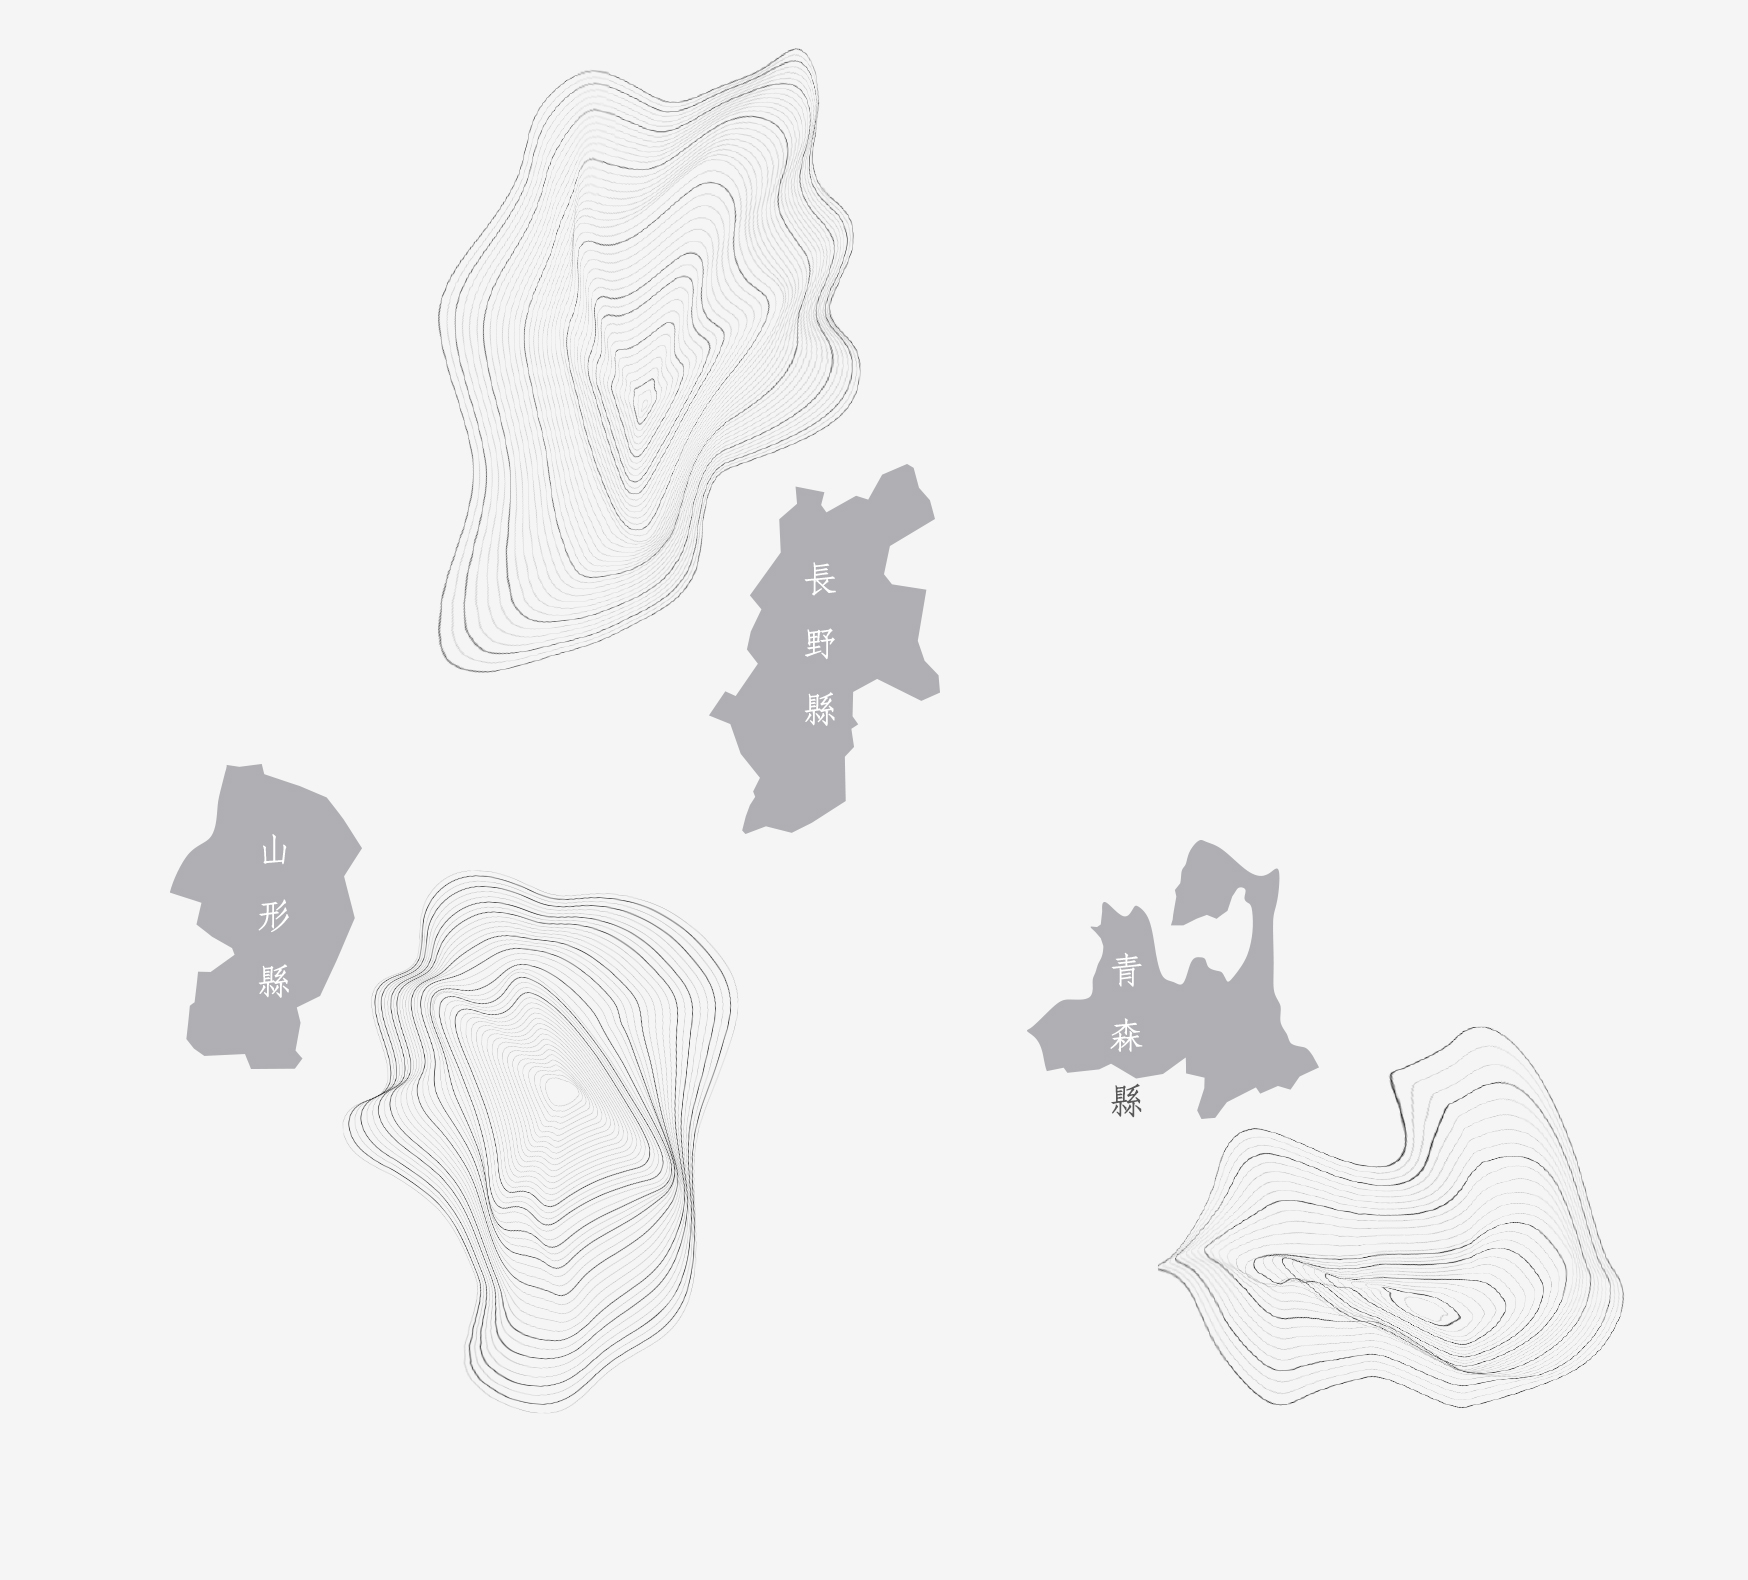
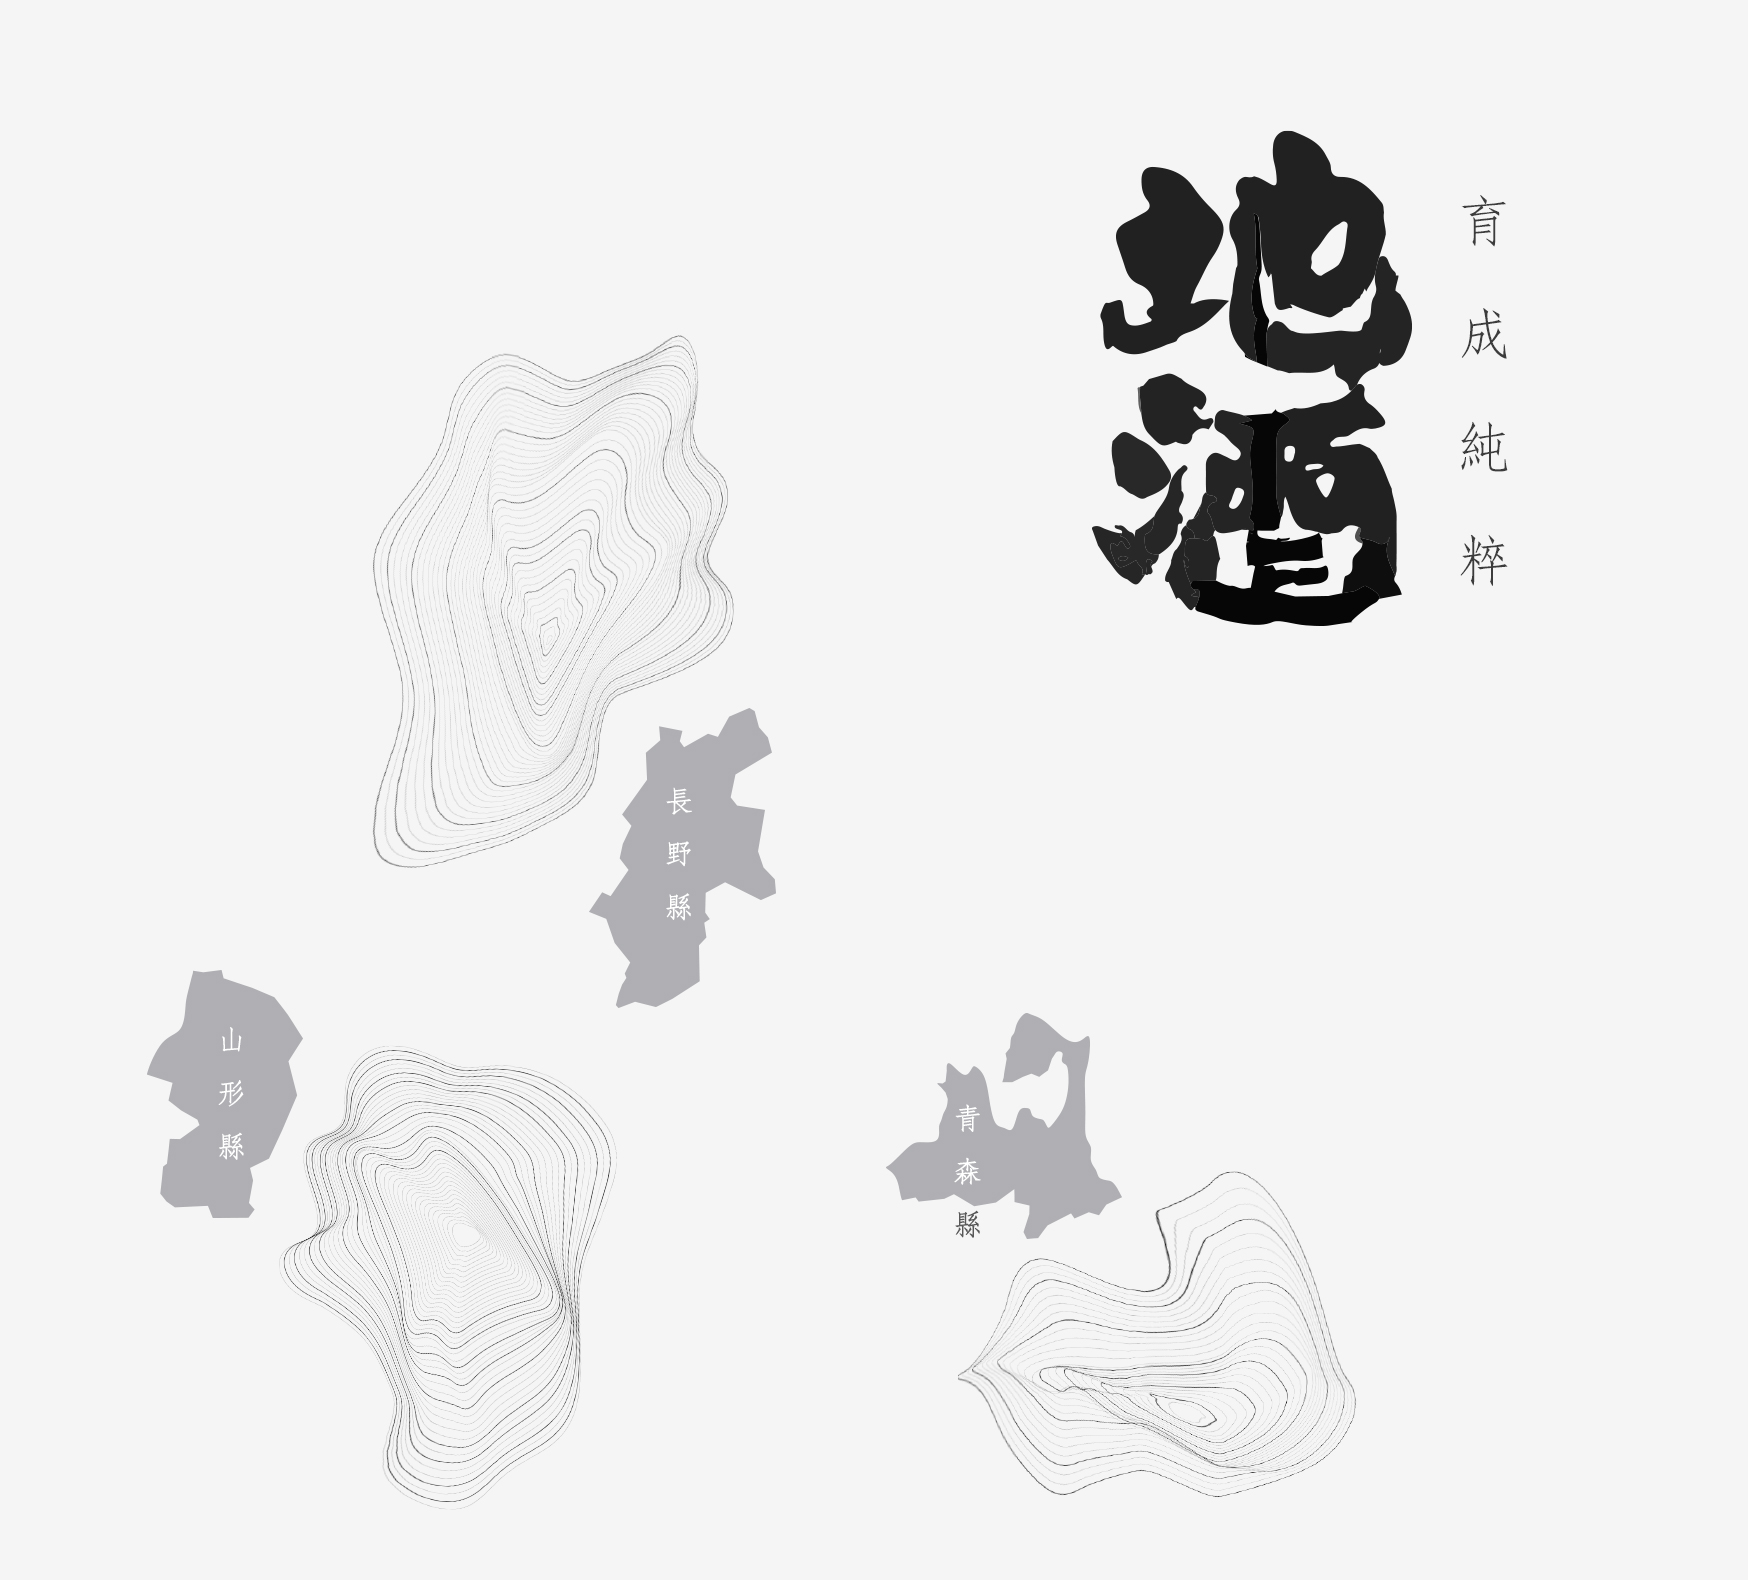
161123

diff --git a/project/wa_sake.html b/project/wa_sake.html
@@ -112,7 +112,7 @@
 
 
       <div class="parallax-3 parallax-copy-shw spacing-large">
-        <p class="observable h1 spacing-sub-title">Campaign  Touchpoint</p>
+        <p class="observable h1 spacing-sub-title">Campaign Touchpoint</p>
        <p class="observable h6 spacing-copy txtpoint"></p>
         <p class="observable copy spacing-small">The main target audience is somewhere between sake beginners and slightly more experienced tasters who meet at home with friends on weekends, especially for home-cooked groups at parties. The social media platforms and customer subscriber databases were used as the first touchpoints, giving the customer campaign details that they needed to know before purchasing.</p>
       </div>
@@ -139,7 +139,7 @@
         <p class="observable h2 spacing-sub-title">Ideating the <span class="txtpoint ws-color">Design Concept</span></p>
         <p class="observable h1 spacing-sub-title txtpoint">Generate Ideas</p>
 
-        <p class="observable copy spacing-small">Sake has had a close relationship with the natural environment of Japanese people since ancient times. Meanwhile,"傳遞純粹" is the unchanging core value of "和酌", representing the natural respect that surrounds all sake lovers. I roughed out the local sake production in desk research. The campaign communicated the local sake-brewing process through storytelling. I created "地酒 育成純粹" as a headline that is in line with the brand slogan to engage audiences, which is key to keeping them scrolling in their tracks.</p>
+        <p class="observable copy spacing-small">Sake has had a close relationship with the natural environment of Japanese people since ancient times. Likewise,"傳遞純粹" is the unchanging core value of "和酌", representing the natural respect that surrounds all sake lovers. I roughed out the local sake production in desk research. This campaign communicated the local sake-brewing through storytelling that embodies the essence of traditional Japanese craftsmanship. I created "地酒 育成純粹" as a headline that is in line with the brand slogan to engage audiences, which is key message to keeping them scrolling in their tracks.</p>
         <!--that reflects its promotion of a monthly sake delivery service. -->
     </div>
 
@@ -162,13 +162,13 @@
         <p class="observable h2 spacing-sub-title">Defining the <span class="txtpoint ws-color">Visual Language</span></p>
         <p class="observable h1 spacing-sub-title txtpoint">Design Element</p>
 
-        <p class="observable copy spacing-small">Designed  landforms dynamic lines for the three local sake regions - Nagano, Yamagata and Aomori as the key visual to express the passion for natural, japan sake and the brand's respect for its own land is important.</p>
+        <p class="observable copy spacing-small">Designed campaign headline with plumpness and inherent presence. Otherwise, landforms with dynamic lines for the three local sake regions—Nagano, Yamagata, and Aomori—are the key visuals to express the passion for natural Japanese sake and the brand's respect for its own land.</p>
 
-        <p class="observable copy spacing-small">The theme design uses only — different saturation deep gray and white that creates the right associations with the product through a minimalist and clean language. The typeface is Fangsong font with strokes have thick and thin variations that repsented content lightly.</p>
+        <p class="observable copy spacing-small">The entire theme uses only a different scale of deep gray and white that creates the right associations with the product through a minimalist and clean language. The typeface is a Fangsong font with strokes that have thick and thin variations that reflect content lightly.</p>
     </div>
 
 
-    <div class="copy-width-70 spacing-small">
+    <div class="copy-width-70 spacing-medium">
         <img class="observable lazy" data-src="../images/projects/wa_sake/element_01.jpg" />
     </div>
 

diff --git a/stylesheets/projects/wa_sake.css b/stylesheets/projects/wa_sake.css
@@ -1193,7 +1193,7 @@ body, .body {
 }
 
 .ws-color {
-  color: #91321f;
+  color: #801d2d;
 }
 
 
